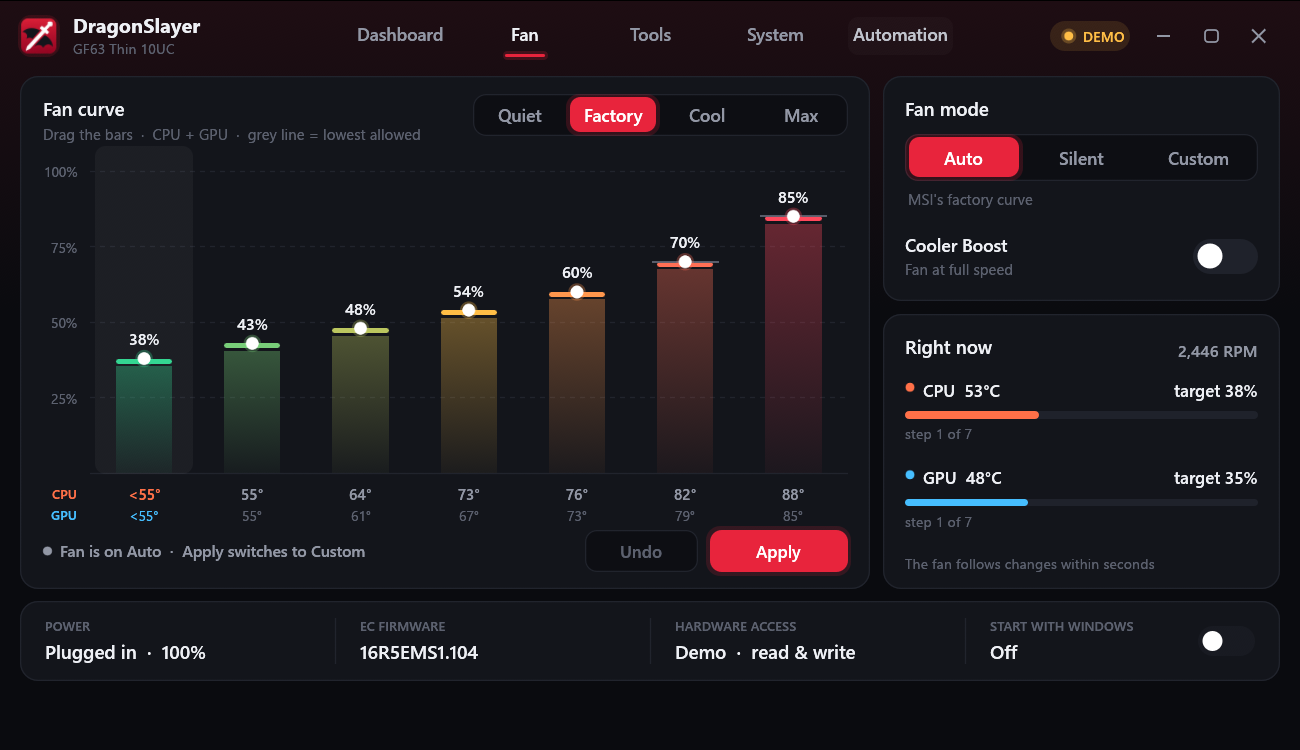
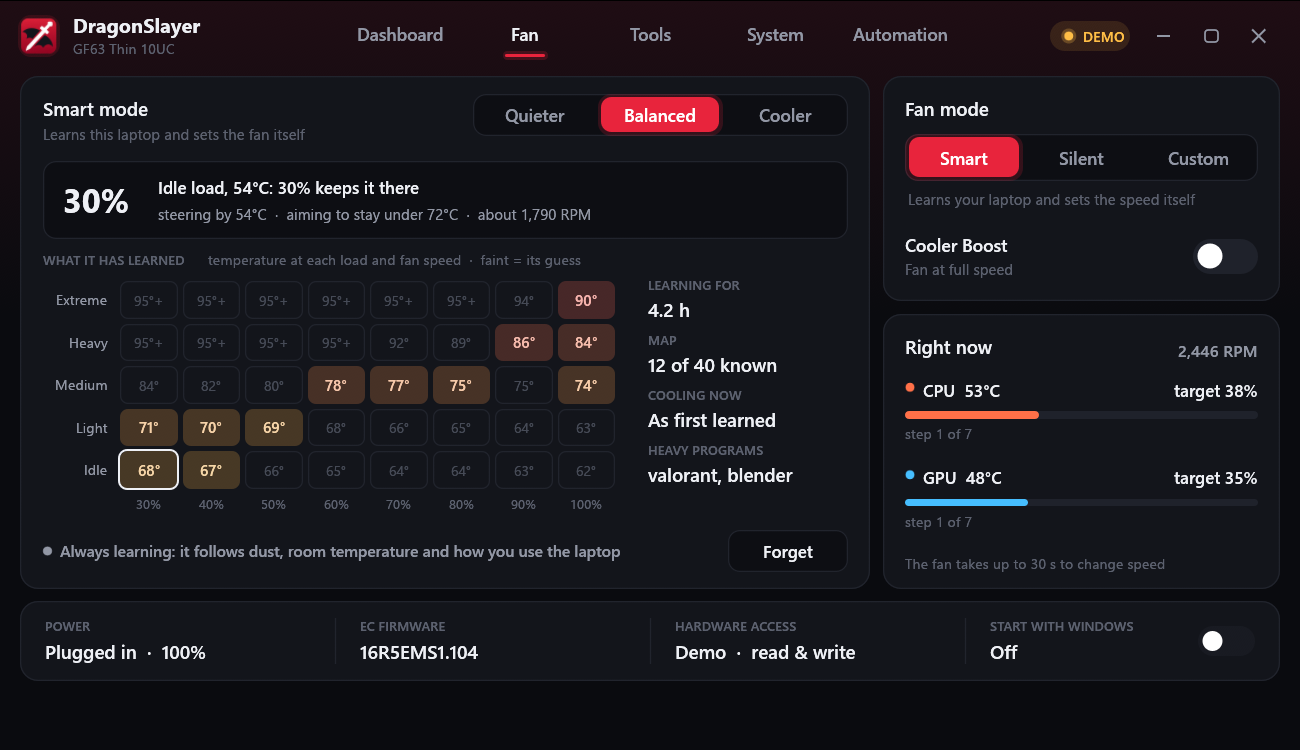
Fan choices: Smart / Silent / Custom (no Auto); Smart by default
- MSI's curve is no longer a menu choice. It stays as the Factory preset
  in Custom, and the app hands the fan back to it on quit when Smart was
  steering. An EC left in MSI's mode shows as 'Factory'.
- Smart is what a fresh install (or a settings file that never chose a
  fan mode) starts with. Balanced and Performance scenarios use Smart.
- Tray: unticking Silent returns to Smart.
- Screen refresh row: shorter text, clipped clear of the buttons; the
  current rate sits next to the title.

diff --git a/src/bin/dragonslayer.rs b/src/bin/dragonslayer.rs
@@ -108,6 +108,8 @@ enum Cmd {
     /// Throw away everything Smart mode has learned
     SmartForget,
     Refresh(Refresh),
+    /// Quit: restore MSI's curve if Smart was steering, then report back.
+    HandBack(mpsc::Sender<()>),
 }
 
 /// One-click presets, like Dragon Center's "User Scenario" page.
@@ -142,6 +144,11 @@ impl Scenario {
         if self == Self::Silent { FanMode::Silent } else { FanMode::Auto }
     }
 
+    /// Smart mode runs the fan in this scenario.
+    fn smart(self) -> bool {
+        matches!(self, Self::Balanced | Self::Performance)
+    }
+
     fn boost(self) -> bool {
         self == Self::Extreme
     }
@@ -149,7 +156,7 @@ impl Scenario {
     fn fans_text(self) -> &'static str {
         match self {
             Self::Silent => "Silent fan",
-            Self::Balanced | Self::Performance => "Auto fan",
+            Self::Balanced | Self::Performance => "Smart fan",
             Self::Extreme => "Cooler Boost",
         }
     }
@@ -243,7 +250,8 @@ fn spawn_worker<B: EcBackend + 'static>(
     persist: bool,
 ) {
     std::thread::spawn(move || {
-        let (mut settings, load_err) = if persist { Settings::load_checked() } else { (Settings::default(), None) };
+        // (the demo starts like a fresh install: Smart mode on)
+        let (mut settings, load_err) = if persist { Settings::load_checked() } else { (Settings::first_run(), None) };
         if persist && let Some(p) = Settings::path() {
             // start report: did reading and writing the settings folder work?
             // (readable without admin rights, for finding problems later)
@@ -316,6 +324,16 @@ fn spawn_worker<B: EcBackend + 'static>(
         let mut tick: u32 = 0;
         loop {
             match rx.recv_timeout(Duration::from_secs(1)) {
+                // the app is quitting: give the fan back to the laptop's own curve
+                // (a Smart speed must not stay behind with nothing steering it)
+                Ok(Cmd::HandBack(done)) => {
+                    if settings.smart && ctl.can_write() {
+                        let _ = ctl.set_fan_profile(FanMode::Auto, None);
+                    }
+                    save_brain(&brain);
+                    let _ = done.send(());
+                    return;
+                }
                 Ok(cmd) => {
                     let was = settings.refresh;
                     let forget = matches!(cmd, Cmd::SmartForget);
@@ -519,7 +537,7 @@ fn spawn_worker<B: EcBackend + 'static>(
 
 fn fan_name(m: FanMode) -> &'static str {
     match m {
-        FanMode::Auto => "Auto",
+        FanMode::Auto => "Factory",
         FanMode::Silent => "Silent",
         FanMode::Basic => "Basic",
         FanMode::Advanced => "Custom",
@@ -567,10 +585,14 @@ fn apply<B: EcBackend>(ctl: &mut Controller<B>, cmd: Cmd, settings: &mut Setting
                     None => errs.push("no matching power plan".into()),
                 }
             }
-            match ctl.set_fan_profile(sc.fan(), settings.curve) {
+            // Balanced and Performance leave the fan to Smart mode
+            let fan = if sc.smart() { ctl.set_fan_profile(FanMode::Advanced, Some(smart::curve_for(50))) } else { ctl.set_fan_profile(sc.fan(), settings.curve) };
+            match fan {
                 Ok(()) => {
-                    settings.fan = Some(sc.fan());
-                    settings.smart = false;
+                    settings.smart = sc.smart();
+                    if !sc.smart() {
+                        settings.fan = Some(sc.fan());
+                    }
                 }
                 Err(e) => errs.push(e.to_string()),
             }
@@ -647,6 +669,8 @@ fn apply<B: EcBackend>(ctl: &mut Controller<B>, cmd: Cmd, settings: &mut Setting
             settings.smart_bias = b.clamp(-6, 6);
             ("Smart mode preference saved".to_string(), Ok(()))
         }
+        // handled by the worker loop itself (it ends the worker)
+        Cmd::HandBack(_) => (String::new(), Ok(())),
         Cmd::SmartForget => {
             *brain = smart::Brain::default();
             ("Smart mode forgot everything it learned".to_string(), Ok(()))
@@ -1069,12 +1093,24 @@ impl App {
         let _ = self.tx.send(cmd);
     }
 
-    /// The fan choices as one control: Auto / Silent / Custom / Smart.
+    /// The fan choices as one control: Smart / Silent / Custom.
+    /// MSI's own curve ("Auto" in MSI's words) is not a choice here: next to
+    /// Smart it only confused, and it is worse. It stays reachable as the
+    /// Factory preset inside Custom, and it is what the laptop runs when the
+    /// app isn't (then nothing is highlighted).
     fn fan_choice(&mut self, ui: &mut Ui, r: Rect, id: &str, st: &Status, smart_on: bool, can_write: bool) {
-        let modes = [FanMode::Auto, FanMode::Silent, FanMode::Advanced];
-        let sel = if smart_on { Some(3) } else { st.fan_mode.ok().and_then(|m| modes.iter().position(|&x| x == m)) };
-        if let Some(i) = segmented(ui, r, Id::new(id), &["Auto", "Silent", "Custom", "Smart"], sel, can_write) {
-            self.send(if i == 3 { Cmd::Smart(true) } else { Cmd::Fan(modes[i]) });
+        let sel = match st.fan_mode {
+            _ if smart_on => Some(0),
+            Ok(FanMode::Silent) => Some(1),
+            Ok(FanMode::Advanced) => Some(2),
+            _ => None,
+        };
+        if let Some(i) = segmented(ui, r, Id::new(id), &["Smart", "Silent", "Custom"], sel, can_write) {
+            self.send(match i {
+                0 => Cmd::Smart(true),
+                1 => Cmd::Fan(FanMode::Silent),
+                _ => Cmd::Fan(FanMode::Advanced),
+            });
         }
     }
 
@@ -1961,7 +1997,7 @@ impl App {
         card_title(p, cool, "Cooling");
         let hint = match &smart_now {
             Some(d) => format!("Smart: {}", d.reason),
-            None => "Auto: MSI's curve  ·  Custom: yours  ·  Smart: learns and decides itself".to_string(),
+            None => "Smart: learns and decides itself  ·  Silent: quietest  ·  Custom: your curve".to_string(),
         };
         p.text(cool.left_bottom() + vec2(18.0, -20.0), Align2::LEFT_CENTER, hint, regular(12.0), if smart_now.is_some() { DIM } else { FAINT });
         let seg_r = Rect::from_min_size(cool.left_top() + vec2(18.0, 46.0), vec2(282.0, 40.0));
@@ -2388,7 +2424,8 @@ impl App {
             let t = Rect::from_min_size(pos2(scen.left() + 18.0 + i as f32 * (tw + GAP), scen.top() + 50.0), vec2(tw, scen.height() - 68.0));
             let plan = sc.plan(plans);
             let active_now = st.is_some_and(|st| {
-                plan.is_some_and(|pl| Some(pl.guid) == active) && st.fan_mode == Ok(sc.fan()) && st.cooler_boost == sc.boost()
+                let fan_ok = if sc.smart() { s.smart } else { !s.smart && st.fan_mode == Ok(sc.fan()) };
+                plan.is_some_and(|pl| Some(pl.guid) == active) && fan_ok && st.cooler_boost == sc.boost()
             });
             let resp = ui.interact(t, Id::new(("scenario", i)), if can_write { Sense::click() } else { Sense::hover() });
             let hover = can_write && resp.hovered();
@@ -2474,18 +2511,26 @@ impl App {
         let r = row(2.0);
         let (slow, fast) = (rates.first().copied().unwrap_or(0), rates.last().copied().unwrap_or(0));
         let can_switch = rates.len() >= 2;
+        // short lines: only ~230 px are free left of the three buttons
         let desc = if !can_switch {
-            "This screen has one refresh rate only".to_string()
+            "Only one rate on this screen".to_string()
         } else {
             match s.refresh {
-                Refresh::Off => format!("Left alone  ·  now {} Hz  ·  screen offers {}", hz.unwrap_or(0), rates.iter().map(u32::to_string).collect::<Vec<_>>().join(" / ")),
-                Refresh::Battery => format!("{slow} Hz on battery, {fast} Hz plugged in  ·  now {} Hz", hz.unwrap_or(0)),
-                Refresh::Adaptive => format!("{slow} Hz on battery, fast for games  ·  now {} Hz", hz.unwrap_or(0)),
+                Refresh::Off => format!("Left alone (offers {})", rates.iter().map(u32::to_string).collect::<Vec<_>>().join(" / ")),
+                Refresh::Battery => format!("{slow} Hz on battery, {fast} plugged in"),
+                Refresh::Adaptive => format!("{slow} Hz on battery, {fast} in games"),
             }
         };
-        p.text(pos2(r.left(), r.center().y - 9.0), Align2::LEFT_CENTER, "Screen refresh", semibold(14.0), TEXT);
-        p.text(pos2(r.left(), r.center().y + 10.0), Align2::LEFT_CENTER, desc, regular(12.0), FAINT);
         let seg = Rect::from_min_size(pos2(r.right() - 222.0, r.center().y - 17.0), vec2(222.0, 34.0));
+        // and never under the buttons, whatever the text
+        let tp = p.with_clip_rect(Rect::from_min_max(pos2(r.left(), r.top() - 4.0), pos2(seg.left() - 10.0, r.bottom() + 4.0)));
+        let title = tp.layout_no_wrap("Screen refresh".into(), semibold(14.0), TEXT);
+        let tw = title.size().x;
+        tp.galley(pos2(r.left(), r.center().y - 9.0 - title.size().y / 2.0), title, TEXT);
+        if let Some(hz) = hz {
+            tp.text(pos2(r.left() + tw + 8.0, r.center().y - 9.0), Align2::LEFT_CENTER, format!("·  {hz} Hz now"), regular(12.0), DIM);
+        }
+        tp.text(pos2(r.left(), r.center().y + 10.0), Align2::LEFT_CENTER, desc, regular(12.0), FAINT);
         let sel = Refresh::ALL.iter().position(|&x| x == s.refresh);
         if let Some(i) = segmented(ui, seg, Id::new("refresh"), &["Off", "Battery", "Adaptive"], sel, can_switch) {
             self.send(Cmd::Refresh(Refresh::ALL[i]));
@@ -2569,6 +2614,14 @@ enum TrayDo {
 }
 
 impl eframe::App for App {
+    fn on_exit(&mut self, _gl: Option<&eframe::glow::Context>) {
+        if !self.mock {
+            let (done, wait) = mpsc::channel();
+            self.send(Cmd::HandBack(done));
+            let _ = wait.recv_timeout(Duration::from_secs(2));
+        }
+    }
+
     fn logic(&mut self, ctx: &egui::Context, _frame: &mut eframe::Frame) {
         // tray clicks and menu picks
         let mut todo = Vec::new();
@@ -2598,7 +2651,8 @@ impl eframe::App for App {
                     ctx.send_viewport_cmd(ViewportCommand::Close);
                 }
                 TrayDo::Boost(on) => self.send(Cmd::Boost(on)),
-                TrayDo::Silent(on) => self.send(Cmd::Fan(if on { FanMode::Silent } else { FanMode::Auto })),
+                // unticking Silent goes back to Smart
+                TrayDo::Silent(on) => self.send(if on { Cmd::Fan(FanMode::Silent) } else { Cmd::Smart(true) }),
             }
         }
 
@@ -2660,9 +2714,9 @@ impl eframe::App for App {
             let predicted = root.ctx().input(|i| i.predicted_dt);
             root.ctx().request_repaint_after(Duration::from_secs_f32(1.0 / 60.0 + predicted));
         }
-        // demo: `--smart` shows Smart mode switched on (for screenshots)
-        if self.frames == 1 && self.mock && std::env::args().any(|a| a == "--smart") {
-            self.send(Cmd::Smart(true));
+        // demo: `--custom` shows the curve editor instead of Smart mode (for screenshots)
+        if self.frames == 1 && self.mock && std::env::args().any(|a| a == "--custom") {
+            self.send(Cmd::Fan(FanMode::Advanced));
         }
         if self.frames == 3 {
             win::round_corners();

diff --git a/src/settings.rs b/src/settings.rs
@@ -211,10 +211,26 @@ impl Settings {
     pub fn load_checked() -> (Self, Option<String>) {
         let Some(p) = Self::path() else { return (Self::default(), None) };
         match std::fs::read_to_string(&p) {
-            Ok(t) => (Self::parse(&t), None),
-            Err(e) if e.kind() == std::io::ErrorKind::NotFound => (Self::default(), None),
+            Ok(t) => (Self::from_file(&t), None),
+            Err(e) if e.kind() == std::io::ErrorKind::NotFound => (Self::first_run(), None),
             Err(e) => (Self::default(), Some(format!("{}: {e}", p.display()))),
         }
+    }
+
+    /// What the app starts with when nothing has been chosen: Smart fan mode.
+    pub fn first_run() -> Self {
+        Self { smart: true, ..Self::default() }
+    }
+
+    /// A settings file's content. If it never chose how to run the fan (no
+    /// `fan=` and no `smart=` line), Smart mode it is.
+    pub fn from_file(text: &str) -> Self {
+        let mut s = Self::parse(text);
+        let chose = text.lines().any(|l| l.trim_start().starts_with("fan=") || l.trim_start().starts_with("smart="));
+        if !chose {
+            s.smart = true;
+        }
+        s
     }
 
     pub fn save(&self) -> std::io::Result<()> {
@@ -281,6 +297,22 @@ mod tests {
     use super::*;
     use crate::ec::backend::MockEc;
     use crate::ec::map;
+
+    #[test]
+    fn smart_is_the_default_until_the_fan_is_chosen() {
+        assert!(Settings::first_run().smart);
+        assert!(Settings::from_file("kbd=2
+heat_protect=on
+").smart, "fan never chosen: Smart");
+        assert!(!Settings::from_file("fan=silent
+").smart, "a chosen fan mode is kept");
+        assert!(!Settings::from_file("smart=off
+kbd=1
+").smart, "Smart switched off stays off");
+        assert!(Settings::from_file("smart=on
+fan=custom
+").smart);
+    }
 
     #[test]
     fn write_file_replaces_and_survives_a_read_only_old_file() {

diff --git a/README.md b/README.md
@@ -5,7 +5,7 @@ A small, fast replacement for MSI Dragon Center on the **MSI GF63 Thin 10UC**
 
 ![DragonSlayer](docs/demo-dashboard.png)
 
-More: [Fans](docs/demo-fans.png) · [Tools](docs/demo-tools.png) ·
+More: [Fan, Smart mode](docs/demo-fans.png) · [Fan, curve editor](docs/demo-fans-custom.png) · [Tools](docs/demo-tools.png) ·
 [System](docs/demo-system.png) · [Automation](docs/demo-automation.png)
 (demo mode screenshots, made with `research/shot-demo.ps1`).
 
@@ -20,7 +20,10 @@ More: [Fans](docs/demo-fans.png) · [Tools](docs/demo-tools.png) ·
   one core), nothing when hidden in the tray or minimised
 - Maximise button (or double-click the title bar): the whole layout scales
   up to fill the screen
-- Fan: **Auto / Silent / Custom**, **Cooler Boost** on/off
+- Fan: **Smart / Silent / Custom**, **Cooler Boost** on/off. Smart is the
+  default. MSI's own curve ("Auto" in Dragon Center) is not a menu choice:
+  next to Smart it only confused. It is the Factory preset inside Custom,
+  and the app hands the fan back to it when it quits.
 - **Custom fan curve** (Fan tab): drag 7 bars (hover shows the RPM), or pick
   Quiet / Factory / Cool / Max. Safety: 20–100%, never decreasing, and the
   two hottest steps never below factory (70%, 85%). Auto and Silent put the
@@ -50,7 +53,8 @@ More: [Fans](docs/demo-fans.png) · [Tools](docs/demo-tools.png) ·
 - **Webcam** power on/off (hardware), with a check whether Windows sees a camera
 - **Windows-key lock** for gaming (software hook, while the app runs)
 - **Power plan** switcher (Windows plans: Balanced, Ultimate Performance, ...)
-- **Scenarios** — Silent / Balanced / Performance / Extreme: one click sets
+- **Scenarios** — Silent / Balanced / Performance / Extreme (Balanced and
+  Performance leave the fan to Smart mode): one click sets
   power plan + fans, like Dragon Center's User Scenario page
 - **Battery charge limit**: 60% / 80% / 100%
 - **Keyboard light**: Off / Low / Mid / High
@@ -104,7 +108,7 @@ fan auto|silent | curve quiet|cool|max|38,43,48,54,60,70,85 | webcam on|off |
 boost on|off | charge 60 | kbd 0-3 | power [plan name]` (add
 `--backend pawnio` and run from an admin terminal to use PawnIO).
 
-Tests: `cargo test` (59 tests; Smart mode runs against a simulated laptop).
+Tests: `cargo test` (61 tests; Smart mode runs against a simulated laptop).
 Windows-key lock check without touching the keyboard:
 `cargo run --release --example winkey_check`.
 
